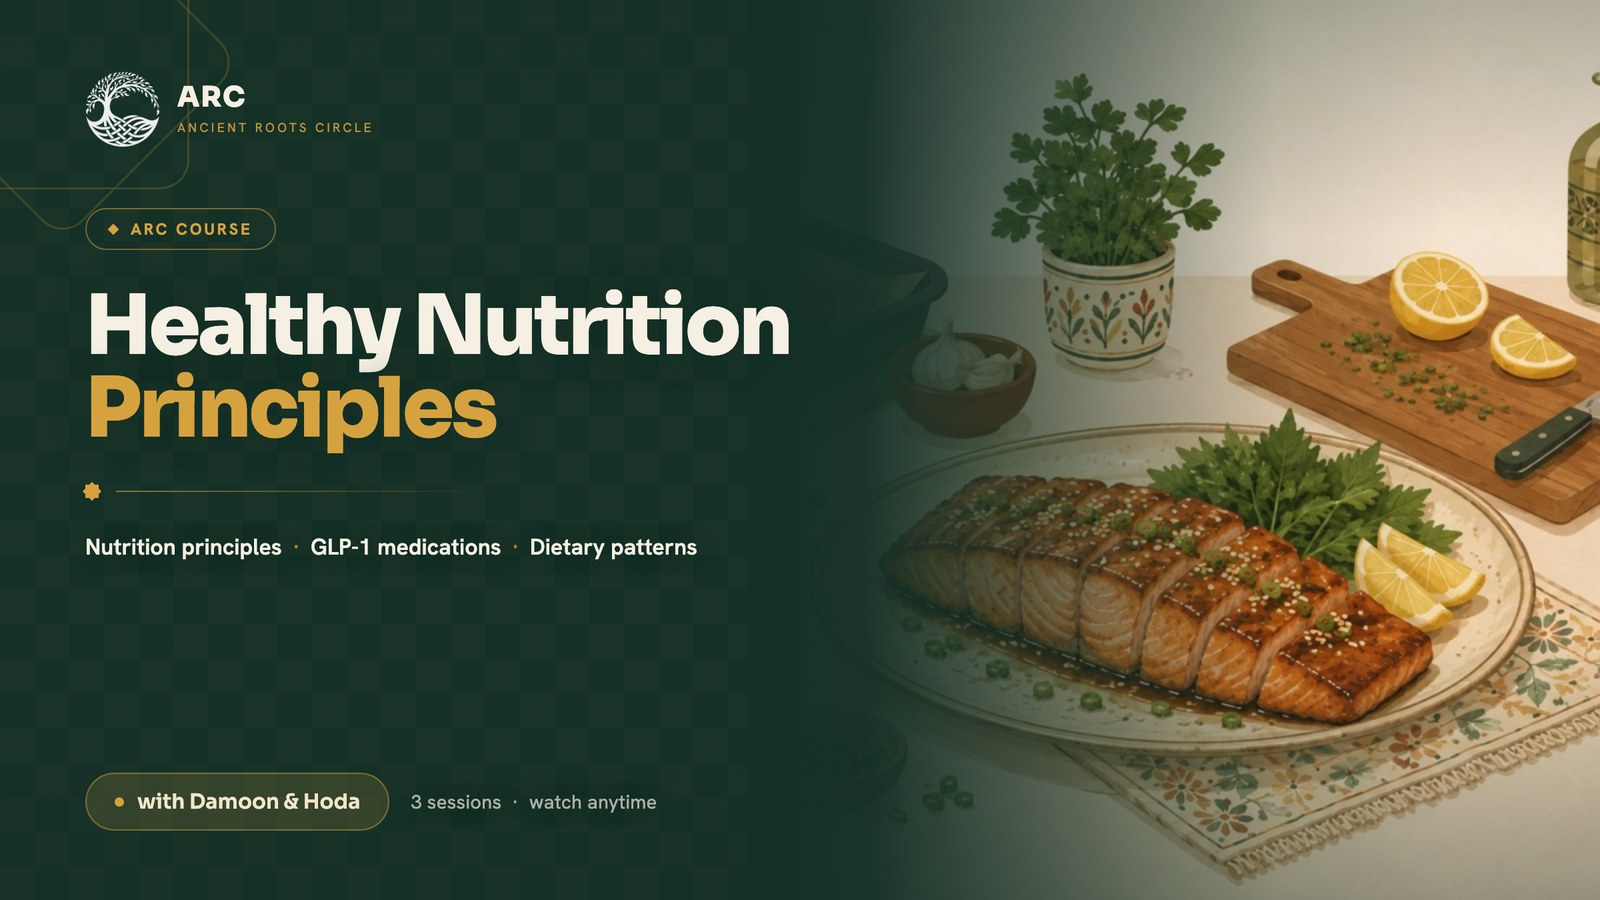
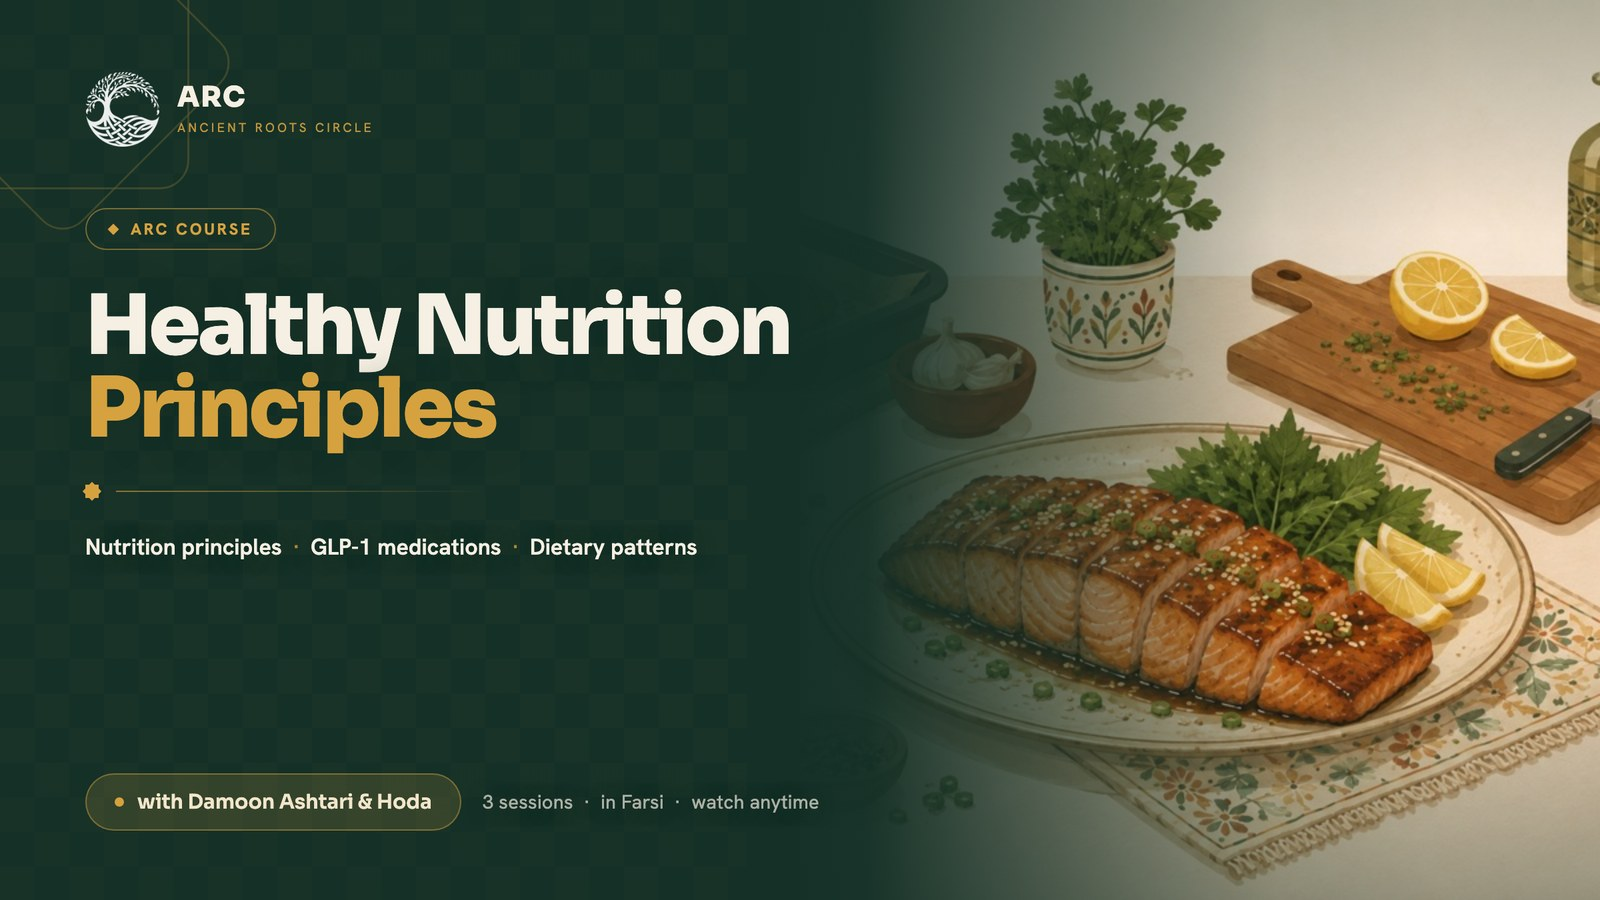
Courses: correct host name to Damoon Ashtari, note that the course is in Farsi
- Card + cover credit 'with Damoon Ashtari & Hoda'
- 'In Farsi' added to the course meta chips and the cover strip
- /courses/ meta description updated
- illustrations/course-nutrition.jpg re-rendered

Changed region(s): [[0.0938, 0.84, 0.5312, 0.9333]]

diff --git a/index.html b/index.html
@@ -1582,13 +1582,13 @@ class Component extends DCLogic {
         id: 'nutrition',
         badge: 'New',
         title: 'Healthy Nutrition Principles',
-        hosts: 'with Damoon & Hoda',
+        hosts: 'with Damoon Ashtari & Hoda',
         img: 'illustrations/course-nutrition.jpg',   // 16:9 branded cover — shown whole (home teaser, sharing)
         cardImg: 'photos/recipe-salmon.jpg',         // untitled art — the in-card panel crops, so no text to clip
         price: 60,
         blurb: 'A practical, evidence-based look at how to actually eat well — what the science says about nutrition, what the new weight-loss medications really do, and how the popular dietary patterns compare.',
         lessons: ['Nutrition principles', 'GLP-1 based medications', 'Dietary patterns'],
-        meta: ['3 sessions', 'Recorded — watch anytime', 'One-time payment'],
+        meta: ['3 sessions', 'In Farsi', 'Recorded — watch anytime', 'One-time payment'],
         url: 'https://ancient-roots-circle.circle.so/checkout/healthy-nutrition-course-access',
       },
     ];

diff --git a/courses/index.html b/courses/index.html
@@ -4,7 +4,7 @@
 <meta charset="utf-8">
 <meta name="viewport" content="width=device-width, initial-scale=1">
 <title>Courses — Ancient Roots Circle</title>
-<meta name="description" content="ARC courses you can buy on their own — including Healthy Nutrition Principles with Damoon &amp; Hoda. No membership required.">
+<meta name="description" content="ARC courses you can buy on their own — including Healthy Nutrition Principles with Damoon Ashtari &amp; Hoda, in Farsi. No membership required.">
 <link rel="canonical" href="https://ancientrootscircle.com/courses/">
 <link rel="icon" type="image/png" sizes="192x192" href="../favicon.png">
 <meta http-equiv="refresh" content="0; url=../#courses">
